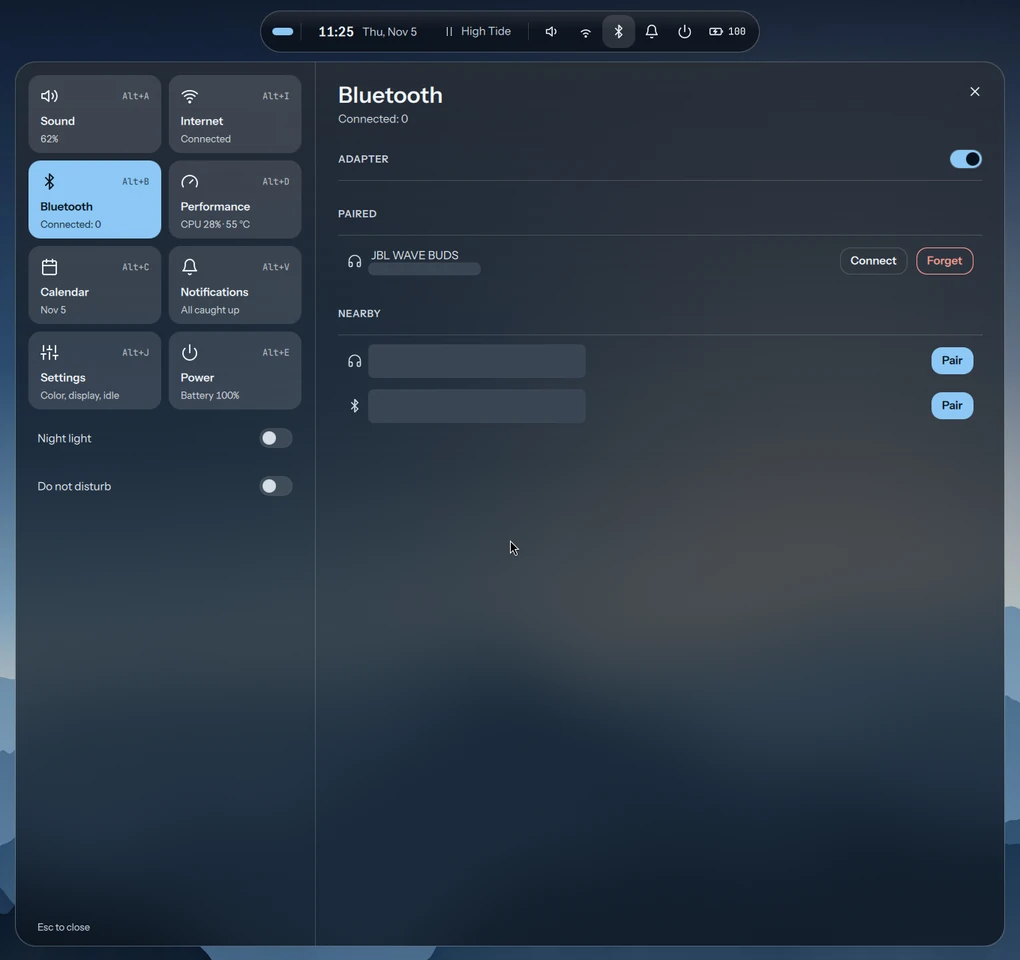
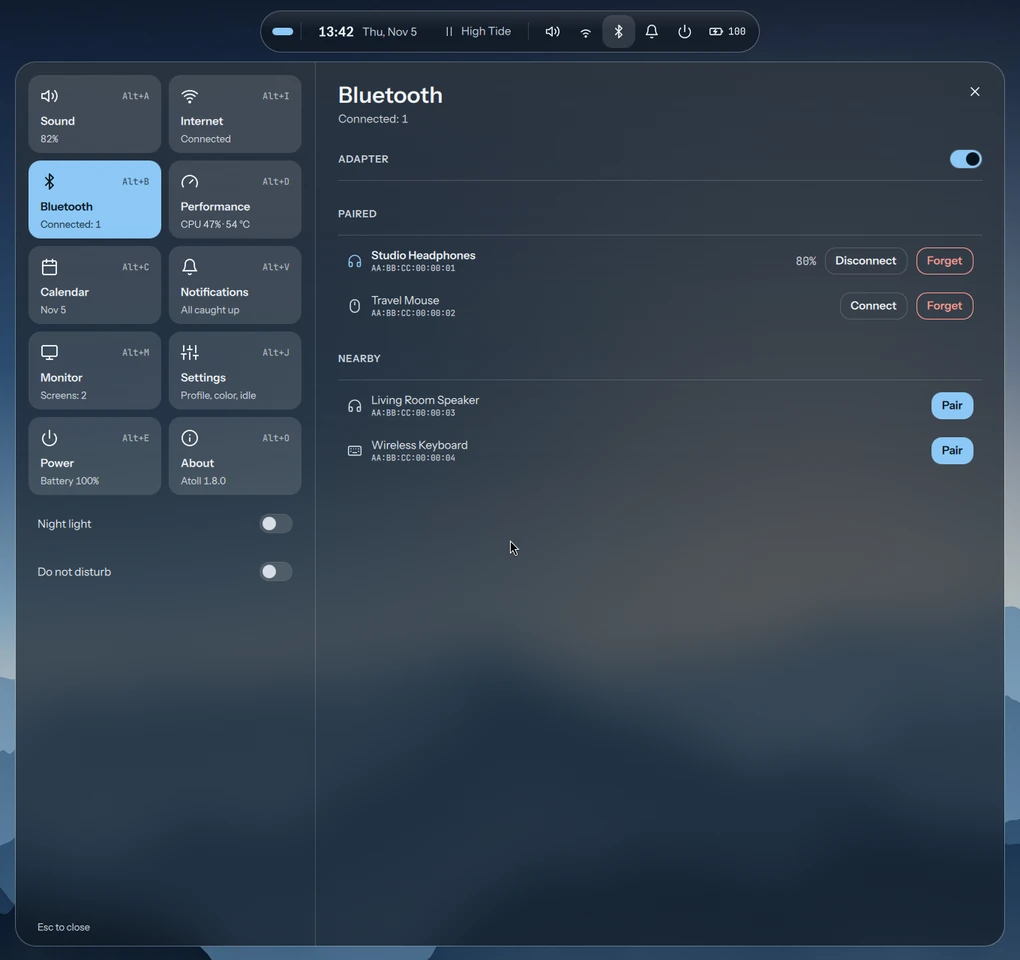
feat: wallpaper gallery and a Never option for idle times
Idle times are picked from a list that includes Never. Wallpapers now work
like profile pictures: the + button adds an image and it stays in the gallery,
and an image already in use joins by itself.

The bundled wallpaper and its generator are gone, so new installs start on a
solid color. Wallpapers are also ignored by git from now on.

Screenshots are retaken with demo network, Bluetooth and audio device names.

diff --git a/shell/PgSettings.qml b/shell/PgSettings.qml
@@ -7,18 +7,10 @@ import Quickshell.Widgets
 Page {
     id: pg
     title: Tr.t("Settings")
-    Component.onCompleted: Holidays.listCountries()
-    property var walls: []
+    Component.onCompleted: { Holidays.listCountries(); Profiles.keepWallpaper() }
     property bool creating: false
     property bool armed: false
     Timer { running: pg.armed; interval: 5000; onTriggered: pg.armed = false }
-
-    Process {
-        running: true
-        command: ["find", Quickshell.env("HOME") + "/.local/share/atoll/wallpapers", Quickshell.env("HOME") + "/Pictures/Wallpapers", "-maxdepth", "2", "-type", "f", "(", "-iname", "*.png", "-o", "-iname", "*.jpg", "-o", "-iname", "*.jpeg", "-o", "-iname", "*.webp", ")"]
-        stderr: StdioCollector {}
-        stdout: StdioCollector { onStreamFinished: pg.walls = text.trim().split("\n").filter(Boolean).sort() }
-    }
 
     component Line: RowLayout {
         property string label: ""
@@ -156,27 +148,27 @@ Page {
         }
     }
     Tx { text: Tr.t("Wallpaper"); Layout.topMargin: 6 }
-    Tx { visible: pg.walls.length === 0; text: Tr.t("Add images to ~/Pictures/Wallpapers"); dim: true }
     Flow {
         Layout.fillWidth: true; spacing: 8
         Repeater {
-            model: pg.walls
+            model: Profiles.wallpapers
             Rectangle {
                 required property string modelData
-                width: 268; height: 120; radius: Theme.radiusSmall; clip: true
+                width: 208; height: 112; radius: Theme.radiusSmall; clip: true
                 color: Theme.raised
                 border.width: Cfg.v.wallpaper === modelData || activeFocus ? 2 : 0
                 border.color: Theme.accent
                 activeFocusOnTab: true
-                Accessible.role: Accessible.Button
-                Accessible.name: Tr.t("Wallpaper %1").arg(modelData.split("/").pop())
+                Accessible.role: Accessible.RadioButton
+                Accessible.name: Tr.t("Wallpaper")
+                Accessible.checked: Cfg.v.wallpaper === modelData
                 Keys.onSpacePressed: Cfg.v.wallpaper = modelData
-                Image { anchors.fill: parent; anchors.margins: 2; source: "file://" + parent.modelData; fillMode: Image.PreserveAspectCrop; sourceSize: Qt.size(536, 240); asynchronous: true }
+                Image { anchors.fill: parent; anchors.margins: 2; source: "file://" + parent.modelData; fillMode: Image.PreserveAspectCrop; sourceSize: Qt.size(416, 224); asynchronous: true }
                 MouseArea { anchors.fill: parent; cursorShape: Qt.PointingHandCursor; onClicked: Cfg.v.wallpaper = parent.modelData }
             }
         }
         Rectangle {
-            width: 268; height: 120; radius: Theme.radiusSmall; color: Theme.ground
+            width: 208; height: 112; radius: Theme.radiusSmall; color: Theme.ground
             border.width: !Cfg.v.wallpaper || activeFocus ? 2 : 1
             border.color: !Cfg.v.wallpaper || activeFocus ? Theme.accent : Theme.line
             activeFocusOnTab: true
@@ -185,6 +177,19 @@ Page {
             Keys.onSpacePressed: Cfg.v.wallpaper = ""
             Tx { anchors.centerIn: parent; text: Tr.t("Solid color"); dim: true }
             MouseArea { anchors.fill: parent; cursorShape: Qt.PointingHandCursor; onClicked: Cfg.v.wallpaper = "" }
+        }
+        Rectangle {
+            width: 208; height: 112; radius: Theme.radiusSmall
+            color: addWallpaper.containsMouse ? Theme.raised : Theme.hover
+            border.width: activeFocus ? 2 : 1
+            border.color: activeFocus ? Theme.ink : Theme.lineStrong
+            activeFocusOnTab: true
+            Accessible.role: Accessible.Button
+            Accessible.name: Tr.t("Add wallpaper")
+            Keys.onSpacePressed: Profiles.addWallpaper()
+            Keys.onReturnPressed: Profiles.addWallpaper()
+            Ic { anchors.centerIn: parent; name: "plus"; size: 32 }
+            MouseArea { id: addWallpaper; anchors.fill: parent; hoverEnabled: true; cursorShape: Qt.PointingHandCursor; onClicked: Profiles.addWallpaper() }
         }
     }
 
@@ -212,7 +217,7 @@ Page {
 
 
     Sec {
-        title: Tr.t("Idle time (minutes, 0 = never)")
+        title: Tr.t("Idle time")
         Btn { text: Tr.t("Apply"); variant: "solid"; onClicked: { Idle.apply(); applied.visible = true } }
     }
     Tx { id: applied; visible: false; text: Tr.t("Applied."); color: Theme.good }
@@ -223,18 +228,25 @@ Page {
         Tx { text: Tr.t("Turn off screen"); dim: true; size: 13; Layout.fillWidth: true }
         Tx { text: Tr.t("Suspend"); dim: true; size: 13; Layout.fillWidth: true }
         Tx { text: Tr.t("Plugged in") }
-        Mins { key: "lockAc" } Mins { key: "dpmsAc" } Mins { key: "sleepAc" }
+        Mins { key: "lockAc"; a11y: Tr.t("Plugged in") + ": " + Tr.t("Lock") }
+        Mins { key: "dpmsAc"; a11y: Tr.t("Plugged in") + ": " + Tr.t("Turn off screen") }
+        Mins { key: "sleepAc"; a11y: Tr.t("Plugged in") + ": " + Tr.t("Suspend") }
         Tx { text: Tr.t("On battery") }
-        Mins { key: "lockBat" } Mins { key: "dpmsBat" } Mins { key: "sleepBat" }
+        Mins { key: "lockBat"; a11y: Tr.t("On battery") + ": " + Tr.t("Lock") }
+        Mins { key: "dpmsBat"; a11y: Tr.t("On battery") + ": " + Tr.t("Turn off screen") }
+        Mins { key: "sleepBat"; a11y: Tr.t("On battery") + ": " + Tr.t("Suspend") }
     }
-    component Mins: Fld {
+    component Mins: Cmb {
         property string key: ""
+        readonly property int minutes: Cfg.v[key]
+        // Times set by hand in an older version stay available.
+        readonly property var choices: [...new Set([0, 1, 2, 3, 5, 10, 15, 20, 30, 45, 60, 90, 120, 180, 240, minutes])].sort((a, b) => a - b)
         Layout.fillWidth: true
-        font.family: Theme.mono
-        text: Cfg.v[key]
-        validator: IntValidator { bottom: 0; top: 240 }
-        Accessible.name: key
-        onTextEdited: if (acceptableInput) Cfg.v[key] = Number(text)
+        implicitWidth: 120
+        textRole: "name"
+        model: choices.map(m => ({ name: m ? Tr.t("%1 min").arg(m) : Tr.t("Never") }))
+        currentIndex: choices.indexOf(minutes)
+        onActivated: i => Cfg.v[key] = choices[i]
     }
 
     Sec { title: Tr.t("Shortcuts") }

diff --git a/shell/Profiles.qml b/shell/Profiles.qml
@@ -12,8 +12,9 @@ Singleton {
     readonly property string path: home + "/.config/atoll/profiles/" + active + ".json"
     property var list: []
     property var photos: []
+    property var wallpapers: []
 
-    function refresh() { lister.running = false; lister.running = true; photoLister.running = true }
+    function refresh() { lister.running = false; lister.running = true; photoLister.running = true; wallpaperLister.running = true }
     function run(args, then) {
         task.then = then ?? null
         task.command = [script].concat(args)
@@ -37,9 +38,18 @@ Singleton {
         run(["delete", old])
     }
     // The picker is a normal window, and the control center would cover it, so it closes meanwhile.
-    function addPhoto() {
+    function addPhoto() { pick("photo", Tr.t("Choose a photo")) }
+    function addWallpaper() { pick("wallpaper", Tr.t("Choose a wallpaper")) }
+    function pick(kind, title) {
         Ui.open = false
+        picker.kind = kind
+        picker.title = title
         picker.running = true
+    }
+    // A wallpaper chosen before the gallery existed joins it, so it stays there after picking another one.
+    function keepWallpaper() {
+        const dir = home + "/.local/share/atoll/backgrounds/"
+        if (Cfg.v.wallpaper && !Cfg.v.wallpaper.startsWith(dir)) run(["wallpaper", Cfg.v.wallpaper], out => Cfg.v.wallpaper = out)
     }
 
     FileView {
@@ -61,14 +71,22 @@ Singleton {
         stdout: StdioCollector { onStreamFinished: root.photos = text.split("\n").filter(Boolean) }
     }
     Process {
+        id: wallpaperLister
+        command: [root.script, "wallpapers"]
+        running: true
+        stdout: StdioCollector { onStreamFinished: root.wallpapers = text.split("\n").filter(Boolean) }
+    }
+    Process {
         id: picker
-        command: ["zenity", "--file-selection", "--title=" + Tr.t("Choose a photo"), "--filename=" + root.home + "/Pictures/",
+        property string kind: ""
+        property string title: ""
+        command: ["zenity", "--file-selection", "--title=" + title, "--filename=" + root.home + "/Pictures/",
             "--file-filter=" + Tr.t("Images") + " | *.png *.PNG *.jpg *.JPG *.jpeg *.JPEG *.webp *.WEBP"]
         stdout: StdioCollector { id: picked }
         onExited: {
             Ui.show("ajustes")
             const image = picked.text.trim()
-            if (image) root.run(["photo", image], out => Cfg.v.photo = out)
+            if (image) root.run([kind, image], out => Cfg.v[kind] = out)
         }
     }
     Process {

diff --git a/shell/Cfg.qml b/shell/Cfg.qml
@@ -18,7 +18,7 @@ Singleton {
         JsonAdapter {
             id: adapter
             property string accent: "gelo"
-            property string wallpaper: Quickshell.env("HOME") + "/.local/share/atoll/wallpapers/atoll-dusk.jpg"
+            property string wallpaper: ""
             property bool dnd: false
             property string name: Quickshell.env("USER")
             property string photo: "" // this profile's picture; empty uses ~/.face

diff --git a/README.md b/README.md
@@ -19,22 +19,22 @@ wallpaper, and windows keep the rest of the screen.
 
 - **Island:** workspaces, clock, media and status in a floating pill at the top.
 - **Dock:** hides at the bottom edge, so windows get the full height. Hover the edge or press `Super+Z`. The gear opens a full-screen launchpad to choose its apps, from the installed list or any program in your files, and to reorder them.
-- **Control center:** sound, internet, Bluetooth, performance, calendar, notifications, settings and power.
+- **Control center:** sound, internet, Bluetooth, performance, calendar, notifications, monitor, settings, about and power.
 - **Music card:** cover art, colors taken from the album, seek bar, repeat, shuffle, likes, volume and output switching.
 - **Notifications and volume:** glass cards that drop from under the island.
 - **Search:** apps and system screens in one box. Type "wifi" or "volume".
 - **Languages:** English, Português (Brasil), Español, Français, Deutsch, Русский and 简体中文. It follows your system language, or pick one in Settings.
 - **Lock screen:** a large clock, the current song and your profile's name and picture over your sharp wallpaper. It also greets you when waking from suspend, with no flash of the desktop.
-- **Profiles:** each one keeps its own name, picture (from a saved gallery you add to), language, accent, wallpaper, dock and idle times. Create and switch them in Settings.
+- **Profiles:** each one keeps its own name, picture and wallpaper (from galleries you add to), language, accent, dock and idle times. Create and switch them in Settings.
 - **Public holidays:** for over 200 countries in the calendar, or none. Choose in Settings.
 - **Monitors:** drag your screens into place, and set resolution, refresh rate, scale, rotation, mirroring, VRR, brightness, workspaces and what closing the lid does. A new layout goes back by itself in 15 seconds unless you keep it.
-- **Idle:** timers per power source and night light.
+- **Idle:** lock, screen off and suspend times per power source, each with a Never option, and night light.
 - **About:** version, update check, project links and system details to paste in a bug report.
 - **Resilient by design:** if the shell crashes, it restarts by itself. Your windows stay open.
 
 ## Screenshots
 
-Personal data such as network and device names is covered with solid blocks.
+Screenshots use demo data.
 
 ![Lock screen](docs/screenshots/lock.webp)
 
@@ -127,7 +127,7 @@ The full list is in [`hypr/binds.lua`](hypr/binds.lua).
 ## Configure
 
 **Most things** are in the Settings screen: profile, language, accent color, wallpaper, night light and idle timers. Screens are in the Monitor screen, saved in `~/.config/atoll/monitors.lua`.
-Your wallpapers go in `~/Pictures/Wallpapers`, and the lock screen follows the one you pick. Your lock screen picture is set per profile, and falls back to `~/.face`.
+Atoll ships no wallpapers and starts on a solid color. Add yours with the **+** in Settings: they stay in the gallery, and the lock screen follows the one you pick. Your lock screen picture is set per profile, and falls back to `~/.face`.
 
 **The lock screen** is `~/.config/atoll/hyprlock.conf`. Updates replace it and save your version as `hyprlock.conf.bak`.
 

diff --git a/README.pt-BR.md b/README.pt-BR.md
@@ -17,16 +17,16 @@ Os prints estão no [README em inglês](README.md#screenshots).
 
 - **Ilha:** áreas de trabalho, relógio, música e status em uma pílula flutuante no topo.
 - **Dock:** se esconde na borda inferior, então as janelas ganham a altura toda. Encoste o mouse na borda ou aperte `Super+Z`. A engrenagem abre um launchpad em tela cheia para escolher os apps, da lista de instalados ou qualquer programa nos seus arquivos, e reordenar.
-- **Central:** som, internet, Bluetooth, desempenho, calendário, avisos, ajustes e energia.
+- **Central:** som, internet, Bluetooth, desempenho, calendário, avisos, monitor, ajustes, sobre e energia.
 - **Cartão de música:** capa, cores tiradas do álbum, barra de tempo, repetir, aleatório, curtidas, volume e troca de saída.
 - **Avisos e volume:** cartões de vidro que descem de baixo da ilha.
 - **Busca:** aplicativos e telas do sistema no mesmo lugar. Digite "wifi" ou "volume".
 - **Idiomas:** English, Português (Brasil), Español, Français, Deutsch, Русский e 简体中文. Segue o idioma do sistema, ou escolha em Ajustes.
 - **Tela de bloqueio:** relógio grande, música atual, nome e foto do perfil, sobre o seu papel de parede nítido. Ela também recebe você ao voltar da suspensão, sem o desktop piscar antes.
-- **Perfis:** cada um guarda nome, foto (de uma galeria que você vai adicionando), idioma, cor, papel de parede, dock e tempos de ociosidade. Crie e troque em Ajustes.
+- **Perfis:** cada um guarda nome, foto e papel de parede (de galerias que você vai adicionando), idioma, cor, dock e tempos de ociosidade. Crie e troque em Ajustes.
 - **Feriados:** de mais de 200 países no calendário, ou nenhum. Escolha em Ajustes.
 - **Monitores:** arraste as telas para posicionar e ajuste resolução, taxa, escala, rotação, espelhamento, VRR, brilho, áreas de trabalho e o que fechar a tampa faz. Uma disposição nova volta sozinha em 15 segundos se você não mantiver.
-- **Ociosidade:** tempos para tomada e bateria, e luz noturna.
+- **Ociosidade:** tempos de bloqueio, desligar a tela e suspender para tomada e bateria, cada um com a opção Nunca, e luz noturna.
 - **Sobre:** versão, busca por atualização, links do projeto e dados do sistema para relatar bugs.
 - **Resistente:** se o shell cair, ele volta sozinho. Suas janelas continuam abertas.
 
@@ -91,7 +91,7 @@ A lista completa está em [`hypr/binds.lua`](hypr/binds.lua).
 ## Configurar
 
 **Quase tudo** está na tela Ajustes: perfil, idioma, cor de destaque, papel de parede, luz noturna e tempos de ociosidade. As telas ficam em Monitor, salvas em `~/.config/atoll/monitors.lua`.
-Seus papéis de parede vão em `~/Pictures/Wallpapers`, e a tela de bloqueio segue o que você escolher. A foto é definida por perfil e, sem uma, usa `~/.face`.
+O Atoll não traz papéis de parede e começa com uma cor sólida. Adicione os seus com o **+** em Ajustes: eles ficam na galeria, e a tela de bloqueio segue o que você escolher. A foto é definida por perfil e, sem uma, usa `~/.face`.
 
 **Tela de bloqueio:** é o arquivo `~/.config/atoll/hyprlock.conf`. Atualizações o substituem e guardam sua versão como `hyprlock.conf.bak`.
 

diff --git a/CHANGELOG.md b/CHANGELOG.md
@@ -6,6 +6,21 @@ All notable changes to this project are documented here. The format follows
 
 ## [Unreleased]
 
+## [1.8.0] - 2026-11-05
+
+### Added
+
+- Idle times are now picked from a list with a Never option.
+- Wallpaper gallery: add images with the + button in Settings and they stay there. An image you already use joins it by itself.
+
+### Changed
+
+- Settings no longer lists every image in `~/Pictures/Wallpapers`.
+
+### Removed
+
+- The bundled default wallpaper and its generator. New installs start on a solid color.
+
 ## [1.7.1] - 2026-11-05
 
 ### Fixed
@@ -115,7 +130,8 @@ All notable changes to this project are documented here. The format follows
 - Lock screen, idle timers, night light and monitor brightness.
 - Installer, uninstaller, automated tests and an original default wallpaper.
 
-[Unreleased]: https://github.com/brayanspagnol/atoll/compare/v1.7.1...HEAD
+[Unreleased]: https://github.com/brayanspagnol/atoll/compare/v1.8.0...HEAD
+[1.8.0]: https://github.com/brayanspagnol/atoll/compare/v1.7.1...v1.8.0
 [1.7.1]: https://github.com/brayanspagnol/atoll/compare/v1.7.0...v1.7.1
 [1.7.0]: https://github.com/brayanspagnol/atoll/compare/v1.6.1...v1.7.0
 [1.6.1]: https://github.com/brayanspagnol/atoll/compare/v1.6.0...v1.6.1

diff --git a/THIRD_PARTY_NOTICES.md b/THIRD_PARTY_NOTICES.md
@@ -34,5 +34,3 @@ OR IN CONNECTION WITH THE USE OR PERFORMANCE OF THIS SOFTWARE.
 | [Instrument Sans](https://github.com/Instrument/instrument-sans) | SIL OFL 1.1 | Downloaded by `install.sh` |
 | [JetBrains Mono](https://github.com/JetBrains/JetBrainsMono) | SIL OFL 1.1 | Package manager |
 | [Papirus icon theme](https://github.com/PapirusDevelopmentTeam/papirus-icon-theme) | GPL-3.0 | Package manager |
-
-The default wallpaper is generated by `tools/gen-wallpaper.py` and is covered by this repository's MIT License.

diff --git a/CONTRIBUTING.md b/CONTRIBUTING.md
@@ -11,7 +11,6 @@ Thanks for helping. Issues and pull requests can be written in English or Portug
 | `scripts/` | Session helpers installed to `~/.local/share/atoll/scripts` |
 | `config/` | Lock screen and default idle configuration |
 | `tests/` | Automated tests for the pure logic |
-| `tools/` | Maintainer tools, such as the wallpaper generator |
 
 ## Test your change
 
